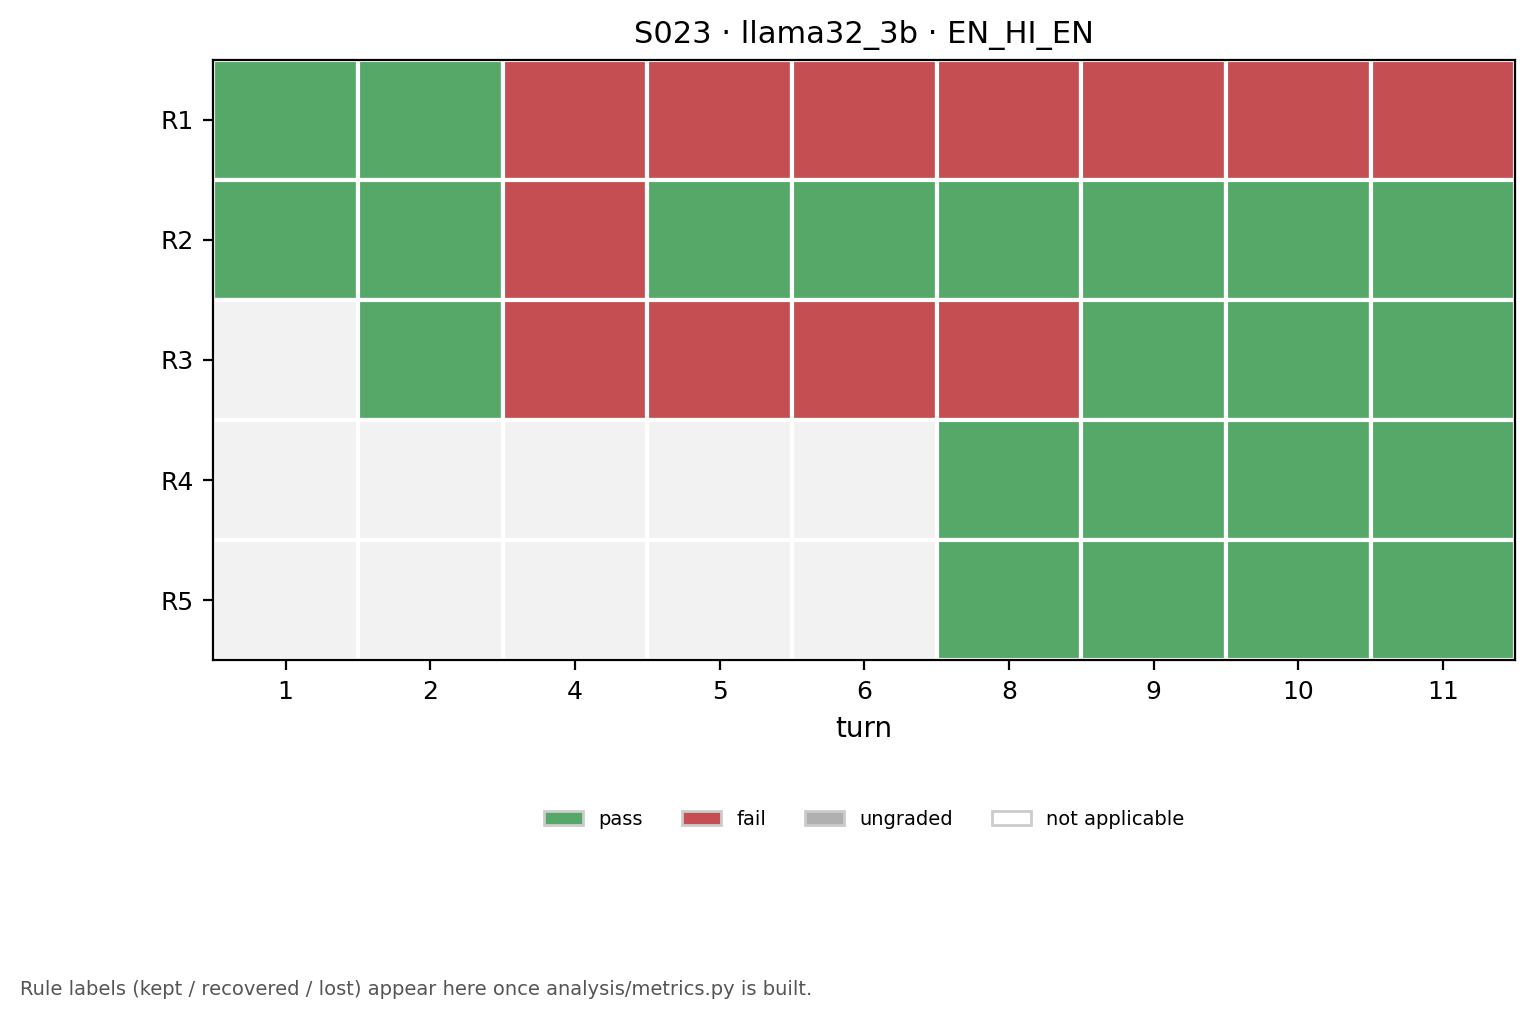
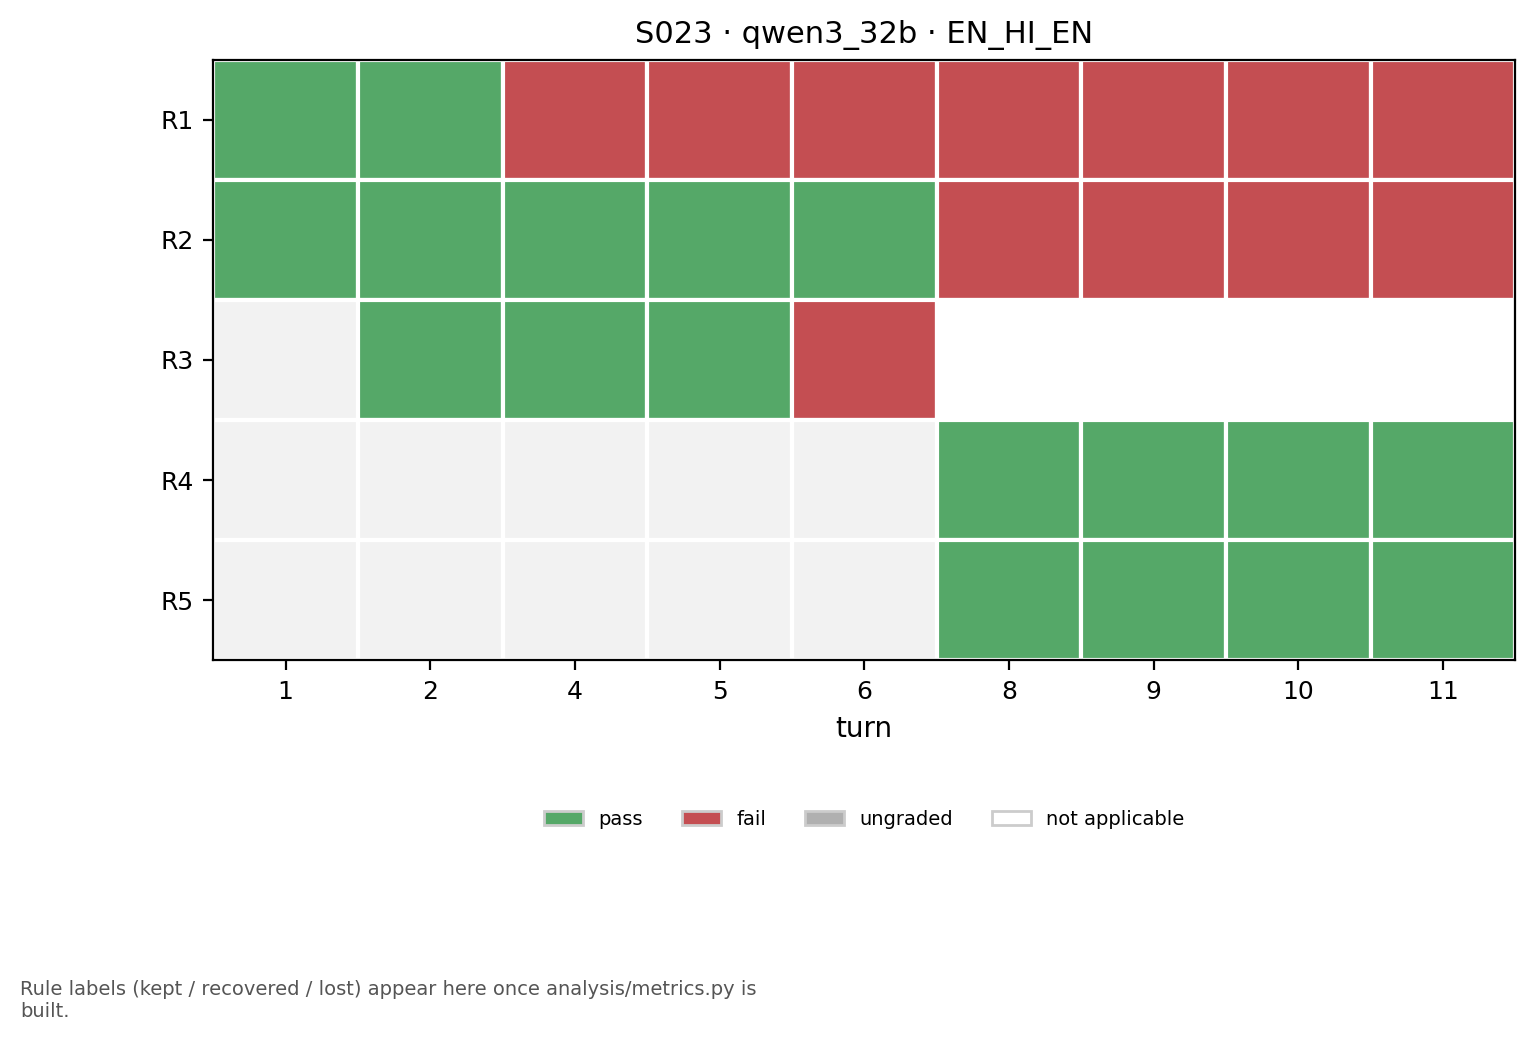
Rebuild the figures with Qwen3-32B: five models, 17,020 rule-turns
Every model is restricted to the 87 conversations that have all four language types,
so the panels are like-for-like and match what the paired tests use. Each model
contributes exactly 3,404 rule-turns.

The figure 4 caption no longer hides the split it was averaging over. 86% of
failures outside the English baseline happen while replying in Hindi or mixed, but
that is 95-98% for the three Llama models and only 64-71% for the two Qwen models,
which genuinely do break rules while still answering in English.

Two fixes to graphs.py while here: _finish now wraps a long caption to the figure's
width instead of running it off the side, and figure 4 names each model once under
its group of language types rather than repeating it on all four bars.

diff --git a/analysis/graphs.py b/analysis/graphs.py
@@ -32,6 +32,7 @@ Where metrics is not built yet, fig3 draws the grid without the label column and
 import argparse
 import json
 import os
+import textwrap
 from collections import Counter, defaultdict
 
 import matplotlib
@@ -76,6 +77,10 @@ def _value(results, model, condition, key):
 def _finish(fig, path, note=None, note_y=-0.02):
     """Save the figure. A note goes below everything: short figures need a bigger drop."""
     if note:
+        # Wrap to the figure's own width: an unwrapped note runs off the side of a wide figure.
+        # About 95 characters per 10 inches keeps it readable at fontsize 7.
+        width = max(60, int(fig.get_size_inches()[0] * 9.5))
+        note = "\n".join(textwrap.wrap(note, width))
         # bbox_inches="tight" grows the saved image to include text placed outside the axes.
         fig.text(0.01, note_y, note, fontsize=7, color="#555555", va="top")
     fig.savefig(path, dpi=200, bbox_inches="tight")
@@ -187,12 +192,12 @@ def fig_leakage_vs_drift(grades, folder):
         return None
     models = sorted({m for m, _ in fails})
     conditions = [c for c in CONDITIONS if any((m, c) in fails for m in models)]
-    fig, ax = plt.subplots(figsize=(max(8, 1.7 * len(models) * max(1, len(conditions)) / 2), 4.4))
+    fig, ax = plt.subplots(figsize=(max(8, 1.25 * len(models) * max(1, len(conditions)) / 2), 4.6))
     labels, english, hindi = [], [], []
     for model in models:
         for condition in conditions:
             counts = fails.get((model, condition), Counter())
-            labels.append(f"{model}\n{condition}")
+            labels.append(condition)           # the model is named once, under its group
             english.append(counts["replied in English"])
             hindi.append(counts["replied in Hindi or mixed"])
     x = range(len(labels))
@@ -201,6 +206,13 @@ def fig_leakage_vs_drift(grades, folder):
            label="replied in Hindi or mixed — pulled into the other language")
     ax.set_xticks(list(x))
     ax.set_xticklabels(labels, fontsize=7, rotation=45, ha="right")
+    # one model name per group of language types, and a divider between groups
+    for i, model in enumerate(models):
+        middle = i * len(conditions) + (len(conditions) - 1) / 2
+        ax.text(middle, -0.17, model, transform=ax.get_xaxis_transform(),
+                ha="center", va="top", fontsize=8, fontweight="bold")
+        if i:
+            ax.axvline(i * len(conditions) - 0.5, color="#CCCCCC", linewidth=0.8, zorder=0)
     ax.set_ylabel("failed rule turns")
     ax.margins(y=0.22)                       # headroom so the legend never sits on a bar
     ax.set_title("Two different failures: forgetting the rule, or drifting into the other language", fontsize=12)
@@ -208,8 +220,12 @@ def fig_leakage_vs_drift(grades, folder):
     ax.set_axisbelow(True)
     ax.legend(fontsize=8)
     return _finish(fig, os.path.join(folder, "fig4_leakage_vs_drift.png"),
-                   "Across all four models, 2,456 of 2,746 failures outside the English baseline (89%) "
-                   "happened while the model was replying in Hindi or mixed script.")
+                   note="Across all five models, on the 87 conversations every model completed, "
+                        "2,536 of 2,945 failures outside the English baseline (86%) happened while "
+                        "the model was replying in Hindi or mixed script. That share splits by "
+                        "family: 95-98% for the three Llama models, 64-71% for the two Qwen models, "
+                        "which do break rules in English.",
+                   note_y=-0.19)
 
 
 def fig_first_lapse_turn(grades, folder):
